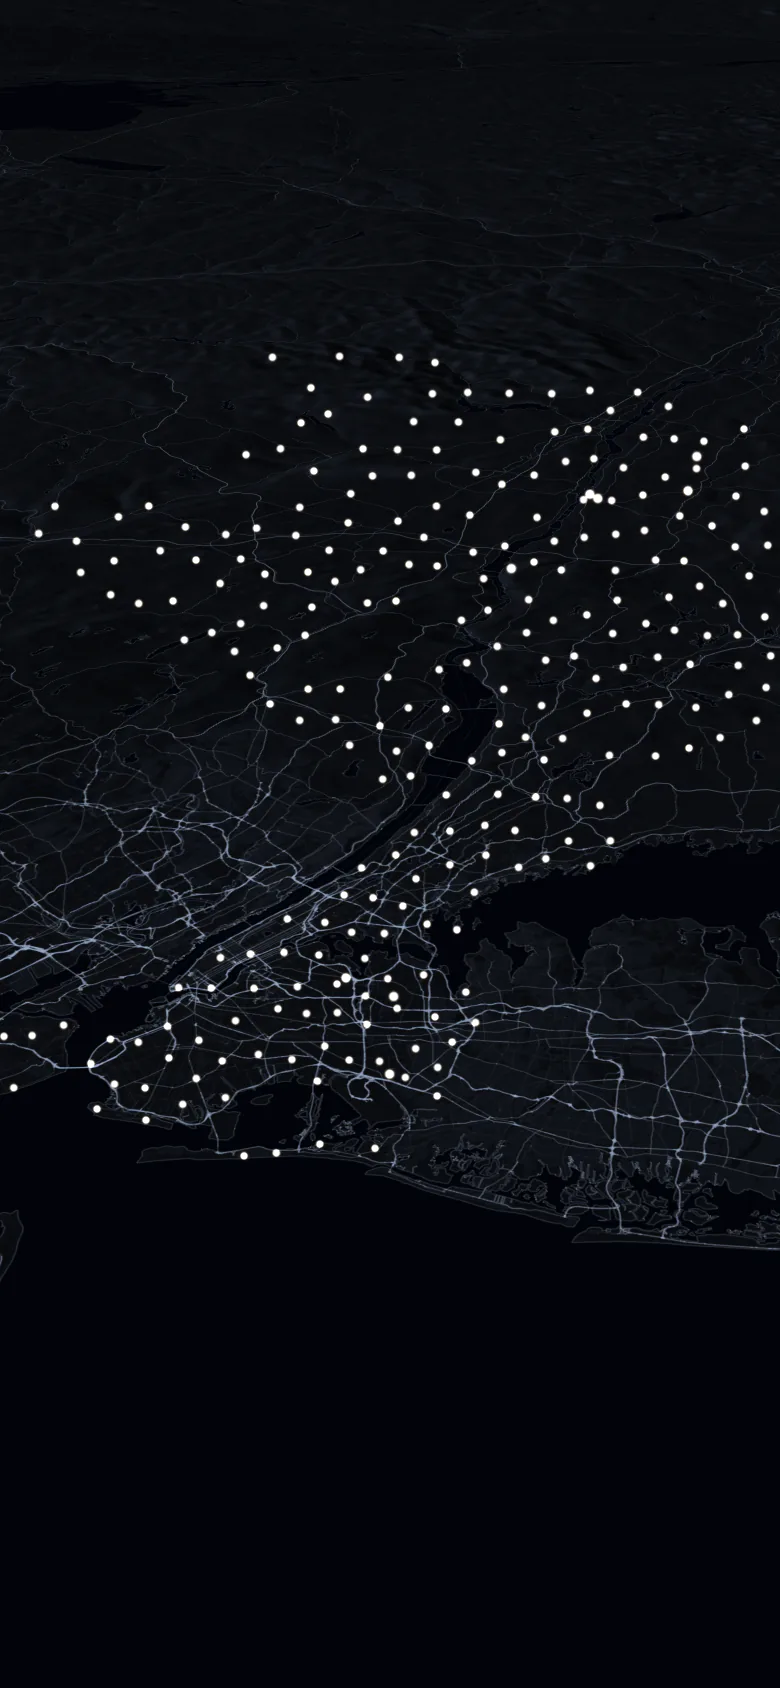
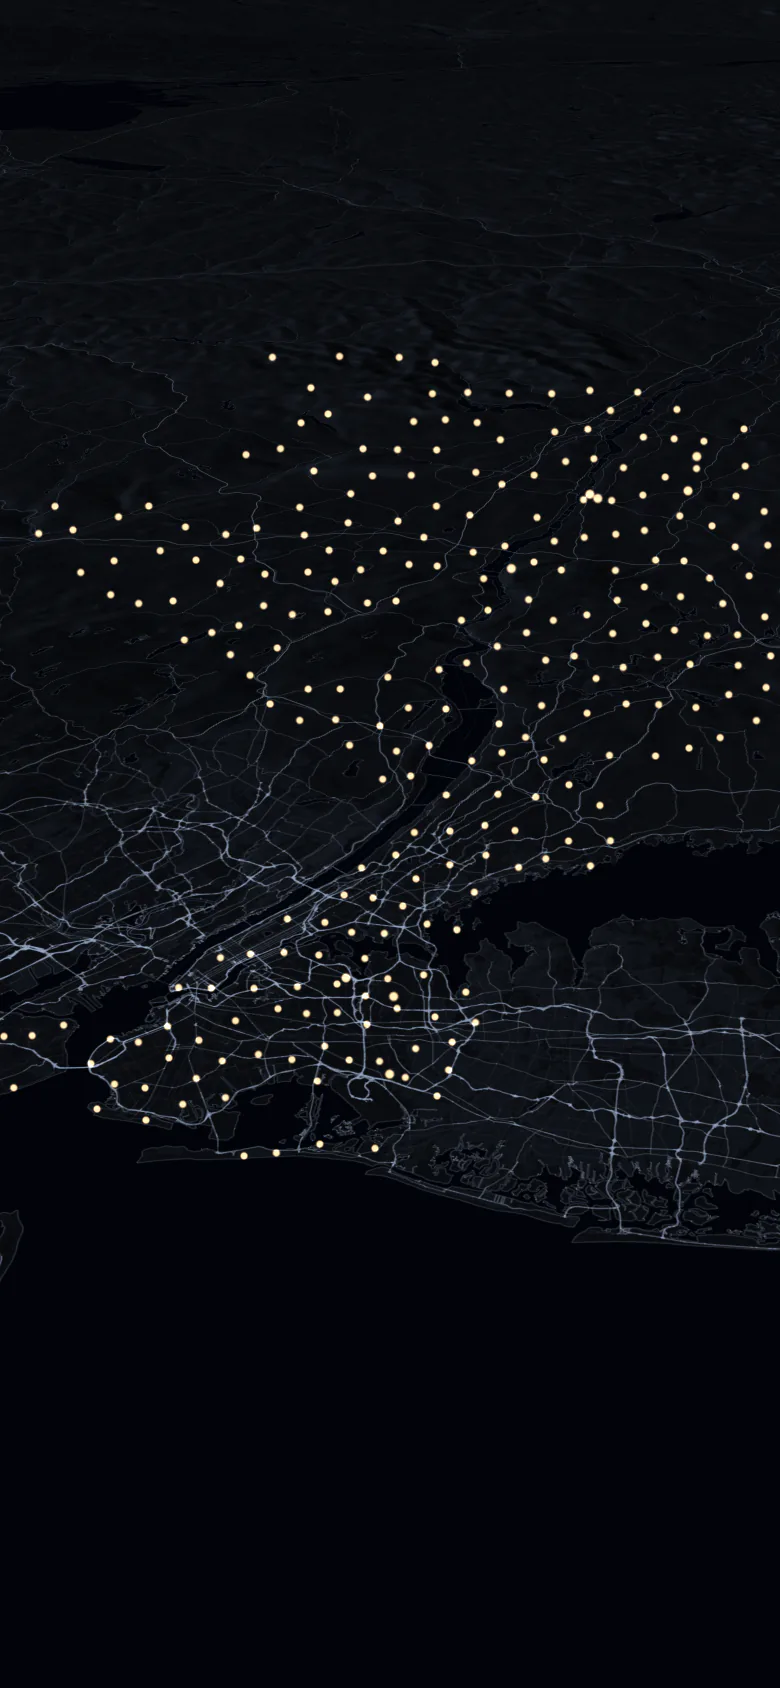
home(r59): the lights yellow like a lamp: core 255,212,158, the halo a whisper (0.08, phone 0.10), ?core= and ?ha= to compare on one build
The owner's sixth verdict: the white points lost the city's light; a yellow dot, 5 to 10 percent
around it at most. The core takes the halo's own warmth, the halo strength drops from 0.46 to
0.08 at the same radii (about 1.5 core radii), the featured halo is a proportion up (no ring),
a light's reach counts its core (a bare dot with ?ha=0). The cover script asks for ?ground=ml
(the plates are the default since round 58) and the two ml covers are re-photographed.

diff --git a/components/home/g3d/glyph.ts b/components/home/g3d/glyph.ts
@@ -2,8 +2,8 @@
  * (light-layer.ts), and by the cover script into the load cover (scripts/make-map-cover.mjs), from
  * the SAME numbers here, so the cover's lights and the live ones are the same lights.
  *
- * The light is two things added onto the ground (additive, "lighter"): a small warm-white CORE and
- * a soft warm HALO around it, one hue, no ring (round 56's dark ring was for daylight imagery; on
+ * The light is two things added onto the ground (additive, "lighter"): a small whitish-yellow CORE
+ * (round 59; warm white before) and a faint warm HALO around it, one hue, no ring (round 56's dark ring was for daylight imagery; on
  * the night grade a light needs no outline). It stands centred ON the home, not above it (the
  * Google marker it replaces anchored its image's bottom edge on the home).
  *
@@ -26,6 +26,9 @@ export interface Glyph {
   glow: number;
   /** Its strength at the centre, 0..1 (0.08 to 0.18: many overlap into one warm ground). */
   glowAlpha: number;
+  /** The core's colour, sRGB 0..255, when the page's `?core=` asks for another than CORE_RGB
+   * (round 59: the comparison knob). Absent: CORE_RGB. */
+  coreRgb?: readonly number[];
 }
 
 type Anchor = readonly [range: number, glyph: Omit<Glyph, "glowAlpha">];
@@ -34,21 +37,31 @@ type Anchor = readonly [range: number, glyph: Omit<Glyph, "glowAlpha">];
  * the brightness around it is too big; it should be half, or even less, if not nothing at all"):
  * the halo is HALF round 57.8's (3 to 4 px, from 6 to 8), a tight bloom that makes the point read
  * as a light and no more, and the neighbourhood glow is OFF by default (GLOW_ALPHA 0; its radii
- * stay here for `?glow=`). The core is unchanged: the point itself was never the complaint. */
+ * stay here for `?glow=`). The core is unchanged: the point itself was never the complaint.
+ *
+ * Round 59 (the owner's sixth verdict: "make that yellow dots just yellow, like a light, but don't
+ * give brightness around it, maybe just a little bit, like five, ten percent, nothing more"): the
+ * halo is a WHISPER, HALO_ALPHA 0.08 on a laptop (0.10 on a phone, below), at the same radii, about
+ * 1.5 core radii (3 to 4 px). Compared by frames at 0, 0.05, 0.08 and 0.10 and at 2 core radii
+ * (docs/parity/DESIGN-ROUND59.md §1): 0 leaves the dot a shade deeper and flatter, 0.08 gives its
+ * edge the round softness of a lamp without a visible ring, and 2 core radii read the same as 1.5. */
+export const HALO_ALPHA = 0.08;
 export const WIDE_ANCHORS: readonly Anchor[] = [
-  [3_000, { core: 2.6, halo: 4, haloAlpha: 0.46, glow: 32 }],
-  [25_000, { core: 2.25, halo: 3.5, haloAlpha: 0.46, glow: 26 }],
-  [60_000, { core: 2.05, halo: 3.25, haloAlpha: 0.46, glow: 24 }],
-  [145_000, { core: 1.9, halo: 3, haloAlpha: 0.46, glow: 20 }],
+  [3_000, { core: 2.6, halo: 4, haloAlpha: HALO_ALPHA, glow: 32 }],
+  [25_000, { core: 2.25, halo: 3.5, haloAlpha: HALO_ALPHA, glow: 26 }],
+  [60_000, { core: 2.05, halo: 3.25, haloAlpha: HALO_ALPHA, glow: 24 }],
+  [145_000, { core: 1.9, halo: 3, haloAlpha: HALO_ALPHA, glow: 20 }],
 ];
 
 /** A phone's (round 57.3: the phone's territory lights were faint beside its words, so its far
- * lights are a touch larger and stronger; closer in the two meet). */
+ * lights are a touch larger and stronger; closer in the two meet). Round 59: its halo at the
+ * verdict's ceiling, 0.10, for the same reason (a phone's lights are read smaller). */
+export const HALO_ALPHA_NARROW = 0.1;
 export const NARROW_ANCHORS: readonly Anchor[] = [
-  [3_000, { core: 2.6, halo: 4, haloAlpha: 0.5, glow: 30 }],
-  [25_000, { core: 2.35, halo: 3.75, haloAlpha: 0.52, glow: 24 }],
-  [60_000, { core: 2.25, halo: 3.5, haloAlpha: 0.54, glow: 22 }],
-  [156_000, { core: 2.2, halo: 3.25, haloAlpha: 0.56, glow: 22 }],
+  [3_000, { core: 2.6, halo: 4, haloAlpha: HALO_ALPHA_NARROW, glow: 30 }],
+  [25_000, { core: 2.35, halo: 3.75, haloAlpha: HALO_ALPHA_NARROW, glow: 24 }],
+  [60_000, { core: 2.25, halo: 3.5, haloAlpha: HALO_ALPHA_NARROW, glow: 22 }],
+  [156_000, { core: 2.2, halo: 3.25, haloAlpha: HALO_ALPHA_NARROW, glow: 22 }],
 ];
 
 /** The glow's strength. Round 57.8 chose 0.12 by frames at three strengths (record §7 round 8);
@@ -63,13 +76,25 @@ const lerp = (a: number, b: number, t: number) => a + (b - a) * t;
 /** The light for a camera this far from its centre: interpolated in log range between the
  * anchors, held at the ends. `glow` is the glow's strength (0 = none: the glow's radius is 0 too,
  * so the light's reach is its halo; else held to 0.08..0.18). `halo` scales the halo's radius
- * (1 = the anchors'; the page's `?halo=` compares, round 58). */
-export function glyphAt(rangeMetres: number, opts: { narrow?: boolean; glow?: number; halo?: number } = {}): Glyph {
+ * (1 = the anchors'; the page's `?halo=` compares, round 58). Round 59's two knobs: `ha` is the
+ * halo's strength at every range (0 = a bare dot: the halo's radius falls to the core's, so the
+ * light reaches no further than its point), `core` the core's colour (three 0..255 numbers). */
+export function glyphAt(
+  rangeMetres: number,
+  opts: { narrow?: boolean; glow?: number; halo?: number; ha?: number; core?: readonly number[] } = {},
+): Glyph {
   const A = opts.narrow ? NARROW_ANCHORS : WIDE_ANCHORS;
   const s = opts.glow ?? GLOW_ALPHA;
   const glowAlpha = s <= 0 ? 0 : Math.min(GLOW_MAX, Math.max(GLOW_MIN, s));
   const hs = opts.halo !== undefined && opts.halo > 0 ? opts.halo : 1;
-  const finish = (g: Omit<Glyph, "glowAlpha">): Glyph => ({ ...g, halo: g.halo * hs, glow: glowAlpha > 0 ? g.glow : 0, glowAlpha });
+  const ha = opts.ha !== undefined && opts.ha >= 0 ? Math.min(0.95, opts.ha) : undefined;
+  const core = opts.core && opts.core.length === 3 && opts.core.every((v) => v >= 0 && v <= 255) ? opts.core : undefined;
+  const finish = (g: Omit<Glyph, "glowAlpha">): Glyph => {
+    const haloAlpha = ha ?? g.haloAlpha;
+    const out: Glyph = { ...g, halo: haloAlpha > 0 ? g.halo * hs : g.core, haloAlpha, glow: glowAlpha > 0 ? g.glow : 0, glowAlpha };
+    if (core) out.coreRgb = core;
+    return out;
+  };
   const r = Math.max(1, rangeMetres);
   if (r <= A[0][0]) return finish(A[0][1]);
   const last = A[A.length - 1];
@@ -88,30 +113,44 @@ export function litGlyph(g: Glyph, k: number): Glyph {
   if (k <= 0) return g;
   // Round 57.8: its glow swells too, half again as wide and twice as strong (the home lights its
   // street a little more while it is pointed at).
-  return {
+  const out: Glyph = {
     core: g.core * (1 + 0.6 * k),
     halo: g.halo * (1 + 0.45 * k),
     haloAlpha: Math.min(0.95, g.haloAlpha * (1 + 0.9 * k)),
     glow: g.glow * (1 + 0.5 * k),
     glowAlpha: Math.min(0.36, g.glowAlpha * (1 + k)),
   };
+  if (g.coreRgb) out.coreRgb = g.coreRgb;
+  return out;
 }
 
 /** The featured homes (the rails' cards): a touch larger than the rest at every range, so they are
- * found. */
+ * found. Round 59: the halo's strength a proportion up (a fifth), no longer a fixed +0.08, which on
+ * the whisper of a halo would have doubled it into a visible ring. */
 export function featuredGlyph(g: Glyph): Glyph {
-  return { core: g.core + 0.6, halo: g.halo * 1.2, haloAlpha: Math.min(0.9, g.haloAlpha + 0.08), glow: g.glow * 1.15, glowAlpha: g.glowAlpha };
+  const out: Glyph = { core: g.core + 0.6, halo: g.halo * 1.2, haloAlpha: Math.min(0.9, g.haloAlpha * 1.2), glow: g.glow * 1.15, glowAlpha: g.glowAlpha };
+  if (g.coreRgb) out.coreRgb = g.coreRgb;
+  return out;
 }
 
-/** How far a light reaches on screen, css px (its sprite's radius; culling and keep-outs). */
-export const reachOf = (g: Glyph) => Math.max(g.halo, g.glow);
+/** How far a light reaches on screen, css px (its sprite's radius; culling and keep-outs). Round 59:
+ * the core counts too (with the halo off the halo's radius is the core's, and a lit or featured
+ * core grows past it). */
+export const reachOf = (g: Glyph) => Math.max(g.core, g.halo, g.glow);
 
 /** How long the lit light takes to come up and go down (the label's own 120 / 160 ms). */
 export const LIT_MS = 140;
 
-/** The light's two colours, sRGB 0..255: the core warm white, the halo the same warmth deeper. One
- * hue (the site's warm-white lights), no other. */
-export const CORE_RGB = [255, 248, 236] as const;
+/** The light's two colours, sRGB 0..255. Round 59: the core takes the halo's own warmth, a
+ * whitish-yellow like an incandescent lamp (was the warm white 255, 248, 236: with round 58's halo
+ * halved, the warmth that had lived in the halo was gone and the point read WHITE, "it lost its
+ * brightness or vision on the city"). Chosen by frames among 255, 212, 158 (this), 255, 222, 172,
+ * 255, 200, 140 and 255, 232, 190: the palest reads white again beside the blue-white roads, the
+ * deepest leans amber; this one reads as lamplight and stands apart from the roads. Never a
+ * saturated yellow, one hue; on the plate the added ground lifts it to about 249, 240, 194 at a
+ * light's centre, and where lights overlap the sum clips toward white. The halo is the same colour
+ * (one hue); `?core=r,g,b` compares another core on the same build. */
+export const CORE_RGB = [255, 212, 158] as const;
 export const HALO_RGB = [255, 212, 158] as const;
 export const LIT_RGB = [255, 255, 255] as const;
 
@@ -144,7 +183,7 @@ export const GLOW_RGB = [255, 196, 132] as const;
 
 /** What one light adds to a pixel `d` css px from its centre, sRGB 0..255 (the cover script sums
  * this; the canvas draws the same three profiles as one sprite with "lighter"). */
-export function glyphAdd(g: Glyph, d: number, alpha = 1, core: readonly number[] = CORE_RGB): [number, number, number] {
+export function glyphAdd(g: Glyph, d: number, alpha = 1, core: readonly number[] = g.coreRgb ?? CORE_RGB): [number, number, number] {
   const c = coreProfile(d / g.core) * alpha;
   const h = haloProfile(d / g.halo) * g.haloAlpha * alpha;
   const w = g.glow > 0 ? glowProfile(d / g.glow) * g.glowAlpha * alpha : 0;

diff --git a/components/home/g3d/glyph.test.ts b/components/home/g3d/glyph.test.ts
@@ -1,5 +1,5 @@
 import { describe, expect, it } from "vitest";
-import { GLOW_ALPHA, NARROW_ANCHORS, WIDE_ANCHORS, coreProfile, featuredGlyph, glowProfile, glyphAdd, glyphAt, haloProfile, litGlyph, reachOf } from "./glyph";
+import { CORE_RGB, GLOW_ALPHA, HALO_ALPHA, HALO_ALPHA_NARROW, HALO_RGB, LIT_RGB, NARROW_ANCHORS, WIDE_ANCHORS, coreProfile, featuredGlyph, glowProfile, glyphAdd, glyphAt, haloProfile, litGlyph, reachOf } from "./glyph";
 import { densityGap } from "./cameras";
 
 /** Round 57.6: the light on our canvas, its size read continuously from the range (the tiers
@@ -71,6 +71,85 @@ describe("the light's glyph by range", () => {
     expect(h.haloAlpha).toBe(g.haloAlpha);
     expect(glyphAt(40_000, { halo: 0 })).toEqual(g);
     expect(glyphAt(40_000, { halo: 1 })).toEqual(g);
+  });
+});
+
+/** Round 59, the owner's sixth verdict: "make that yellow dots just yellow, like a light, but don't
+ * give brightness around it, maybe just a little bit, like five, ten percent, nothing more." */
+describe("round 59: a yellow light, a whisper of a halo", () => {
+  const RANGES = [300_000, 156_000, 145_000, 72_500, 40_000, 21_000, 5_000, 1_500];
+
+  it("the core is whitish-yellow: R full, G and B in the lamp's band, G above B (never grey, never saturated)", () => {
+    const [r, g, b] = CORE_RGB;
+    expect(r).toBe(255);
+    expect(g).toBeGreaterThanOrEqual(200);
+    expect(g).toBeLessThanOrEqual(235);
+    expect(b).toBeGreaterThanOrEqual(135);
+    expect(b).toBeLessThanOrEqual(195);
+    expect(g).toBeGreaterThan(b + 20);
+    // the halo is the same hue: its channels in the same order and ratio band
+    expect(HALO_RGB[0]).toBe(255);
+    expect(HALO_RGB[1]).toBeLessThanOrEqual(g);
+    expect(HALO_RGB[2]).toBeLessThanOrEqual(b);
+    const [cr, cg, cb] = glyphAdd(glyphAt(40_000), 0);
+    expect(cg / cr).toBeGreaterThan(0.78);
+    expect(cg / cr).toBeLessThan(0.93);
+    expect(cb).toBeLessThan(cg);
+  });
+
+  it("the halo is at most 10 percent and reaches at most 2 core radii, at every range, both widths", () => {
+    expect(HALO_ALPHA).toBeLessThanOrEqual(0.1);
+    expect(HALO_ALPHA_NARROW).toBeLessThanOrEqual(0.1);
+    for (const narrow of [false, true]) {
+      for (const r of RANGES) {
+        const g = glyphAt(r, { narrow });
+        expect(g.haloAlpha).toBeGreaterThan(0);
+        expect(g.haloAlpha).toBeLessThanOrEqual(0.1);
+        expect(g.halo).toBeLessThanOrEqual(2 * g.core);
+        expect(reachOf(g)).toBeLessThanOrEqual(2 * g.core);
+      }
+    }
+  });
+
+  it("`?ha=` sets the halo's strength; 0 is a bare dot whose reach is the core", () => {
+    const g = glyphAt(40_000, { ha: 0.05 });
+    expect(g.haloAlpha).toBeCloseTo(0.05);
+    const bare = glyphAt(40_000, { ha: 0 });
+    expect(bare.haloAlpha).toBe(0);
+    expect(reachOf(bare)).toBe(bare.core);
+    expect(glyphAdd(bare, bare.core + 0.01)).toEqual([0, 0, 0]);
+    expect(glyphAt(40_000, { ha: -1 })).toEqual(glyphAt(40_000));
+  });
+
+  it("`?core=` reaches the glyph and its colour, through lit and featured; a bad value is ignored", () => {
+    const c = [255, 200, 140] as const;
+    const g = glyphAt(40_000, { core: c });
+    expect(g.coreRgb).toEqual(c);
+    expect(glyphAdd(g, 0)[1]).toBeCloseTo(200 + HALO_RGB[1] * g.haloAlpha);
+    expect(litGlyph(g, 0.5).coreRgb).toEqual(c);
+    expect(featuredGlyph(g).coreRgb).toEqual(c);
+    expect(glyphAt(40_000).coreRgb).toBeUndefined();
+    expect(glyphAt(40_000, { core: [255, 300, 0] }).coreRgb).toBeUndefined();
+    expect(glyphAt(40_000, { core: [NaN, 1, 2] }).coreRgb).toBeUndefined();
+    expect(glyphAt(40_000, { core: [255, 212] }).coreRgb).toBeUndefined();
+  });
+
+  it("a lit light is brighter than the resting one at its centre (white, among yellow) and larger", () => {
+    const g = glyphAt(40_000), l = litGlyph(g, 1);
+    // the layer's bake eases the core toward LIT_RGB with the lit amount; fully lit it is LIT_RGB
+    const lit = glyphAdd(l, 0, 1, LIT_RGB);
+    const rest = glyphAdd(g, 0);
+    expect(lit[1] + lit[2]).toBeGreaterThan(rest[1] + rest[2] + 60);
+    expect(reachOf(l)).toBeGreaterThan(reachOf(g));
+  });
+
+  it("a featured light's halo stays a whisper (a proportion up, no ring)", () => {
+    for (const narrow of [false, true]) {
+      const f = featuredGlyph(glyphAt(40_000, { narrow }));
+      expect(f.haloAlpha).toBeLessThanOrEqual(0.13);
+      expect(f.core).toBeGreaterThan(glyphAt(40_000, { narrow }).core);
+      expect(reachOf(f)).toBeGreaterThanOrEqual(f.core);
+    }
   });
 });
 
@@ -164,7 +243,7 @@ describe("the profiles", () => {
     expect(haloProfile(1)).toBe(0);
     for (let u = 0; u < 1; u += 0.05) expect(haloProfile(u + 0.05)).toBeLessThanOrEqual(haloProfile(u));
   });
-  it("adds warm white at the centre and nothing past the halo", () => {
+  it("adds the lamp's warmth at the centre and nothing past the halo", () => {
     const [r, gg, b] = glyphAdd(g, 0);
     expect(r).toBeGreaterThan(b);
     expect(gg).toBeGreaterThan(b);

diff --git a/components/home/g3d/light-layer.ts b/components/home/g3d/light-layer.ts
@@ -52,7 +52,8 @@ function bake(g: Glyph, lit: number, dpr: number): HTMLCanvasElement {
   c.width = c.height = s;
   const x = c.getContext("2d")!;
   const img = x.createImageData(s, s);
-  const core = [0, 1, 2].map((k) => CORE_RGB[k] + (LIT_RGB[k] - CORE_RGB[k]) * lit);
+  const rest = g.coreRgb ?? CORE_RGB;
+  const core = [0, 1, 2].map((k) => rest[k] + (LIT_RGB[k] - rest[k]) * lit);
   // The light's additive value stored as colour over alpha (alpha = its largest channel), so the
   // canvas keeps it premultiplied and is transparent wherever the light adds nothing (an opaque
   // bake made "lighter" paint black squares on the transparent canvas). The canvas is then ADDED to
@@ -96,6 +97,7 @@ const quant = (g: Glyph, lit: number) => ({
   glow: Math.round(g.glow * 2) / 2,
   glowAlpha: Math.round(g.glowAlpha * 100) / 100,
   lit: Math.round(lit * 10) / 10,
+  coreRgb: g.coreRgb,
 });
 
 export class LightLayer {
@@ -131,6 +133,9 @@ export class LightLayer {
   glowStrength: number | undefined = undefined;
   /** The halo's radius as a scale of glyph.ts's (1 unless the page's `?halo=` says; round 58). */
   haloScale: number | undefined = undefined;
+  /** Round 59's comparison knobs: the halo's strength (`?ha=`) and the core's colour (`?core=`). */
+  haloStrength: number | undefined = undefined;
+  coreRgb: readonly number[] | undefined = undefined;
 
   constructor(
     private canvas: HTMLCanvasElement,
@@ -291,7 +296,7 @@ export class LightLayer {
     this.xyCount = 0;
     if (!cam || this.w === 0) return;
     const range = cam.range > 1 ? cam.range : Math.max(500, cam.center.altitude / Math.max(0.2, Math.cos((cam.tilt * Math.PI) / 180)));
-    const g = glyphAt(range, { narrow: this.narrow(), glow: this.glowStrength, halo: this.haloScale });
+    const g = glyphAt(range, { narrow: this.narrow(), glow: this.glowStrength, halo: this.haloScale, ha: this.haloStrength, core: this.coreRgb });
     this.glyph = g;
     const fr = cameraFrame(cam);
     const vp = { width: this.w, height: this.h, fov: cam.fov };
@@ -367,7 +372,7 @@ export class LightLayer {
    * past this frame's budget of new bakes it keeps last frame's sprite for that step. */
   private bakeOf(g: Glyph, lit: number, slot?: number): HTMLCanvasElement {
     const q = quant(g, lit);
-    const key = `${q.core}/${q.halo}/${q.haloAlpha}/${q.glow}/${q.glowAlpha}/${q.lit}`;
+    const key = `${q.core}/${q.halo}/${q.haloAlpha}/${q.glow}/${q.glowAlpha}/${q.lit}/${q.coreRgb ?? ""}`;
     let b = this.bakes.get(key);
     if (!b && slot !== undefined && this.bakeBudget <= 0 && this.lastBase[slot]) return this.lastBase[slot]!;
     if (!b) {

diff --git a/components/home/ml/controller.ts b/components/home/ml/controller.ts
@@ -132,6 +132,9 @@ export class MlController implements GroundEngine {
       glow?: number;
       /** The halo's radius as a scale of glyph.ts's (`?halo=`, round 58). */
       halo?: number;
+      /** Round 59: the halo's strength (`?ha=`) and the core's colour (`?core=r,g,b`). */
+      ha?: number;
+      core?: readonly number[];
       cityGap?: number;
       /** The map's pixel ratio (`?pr=`, round 58: the plate renderer draws a phone plate at 3). The
        * page's own is the screen's, held to 2. */
@@ -165,6 +168,8 @@ export class MlController implements GroundEngine {
       });
       this.layer.glowStrength = opts.glow;
       this.layer.haloScale = opts.halo;
+      this.layer.haloStrength = opts.ha;
+      this.layer.coreRgb = opts.core;
     }
   }
 

diff --git a/components/home/plates/plate-controller.ts b/components/home/plates/plate-controller.ts
@@ -93,6 +93,8 @@ export class PlateController implements GroundEngine {
       onError: (msg: string) => void;
       glow?: number;
       halo?: number;
+      ha?: number;
+      core?: readonly number[];
       cityGap?: number;
     },
   ) {
@@ -124,6 +126,8 @@ export class PlateController implements GroundEngine {
       );
       slot.layer.glowStrength = opts.glow;
       slot.layer.haloScale = opts.halo;
+      slot.layer.haloStrength = opts.ha;
+      slot.layer.coreRgb = opts.core;
       this.slots.push(slot);
     }
   }

diff --git a/components/home/ml/MlGround.tsx b/components/home/ml/MlGround.tsx
@@ -527,6 +527,9 @@ export function MlGround({ poster, tail, featured = [], engine: engineProp = "ml
       initial,
       glow: num("glow"),
       halo: num("halo"),
+      // Round 59's comparison knobs: `?ha=0.08` the halo's strength, `?core=255,212,158` the core's colour.
+      ha: num("ha"),
+      core: q.get("core")?.split(",").map(Number),
       cityGap: num("gap"),
       onLand: () => {
         labelsPlaced.current = false;
